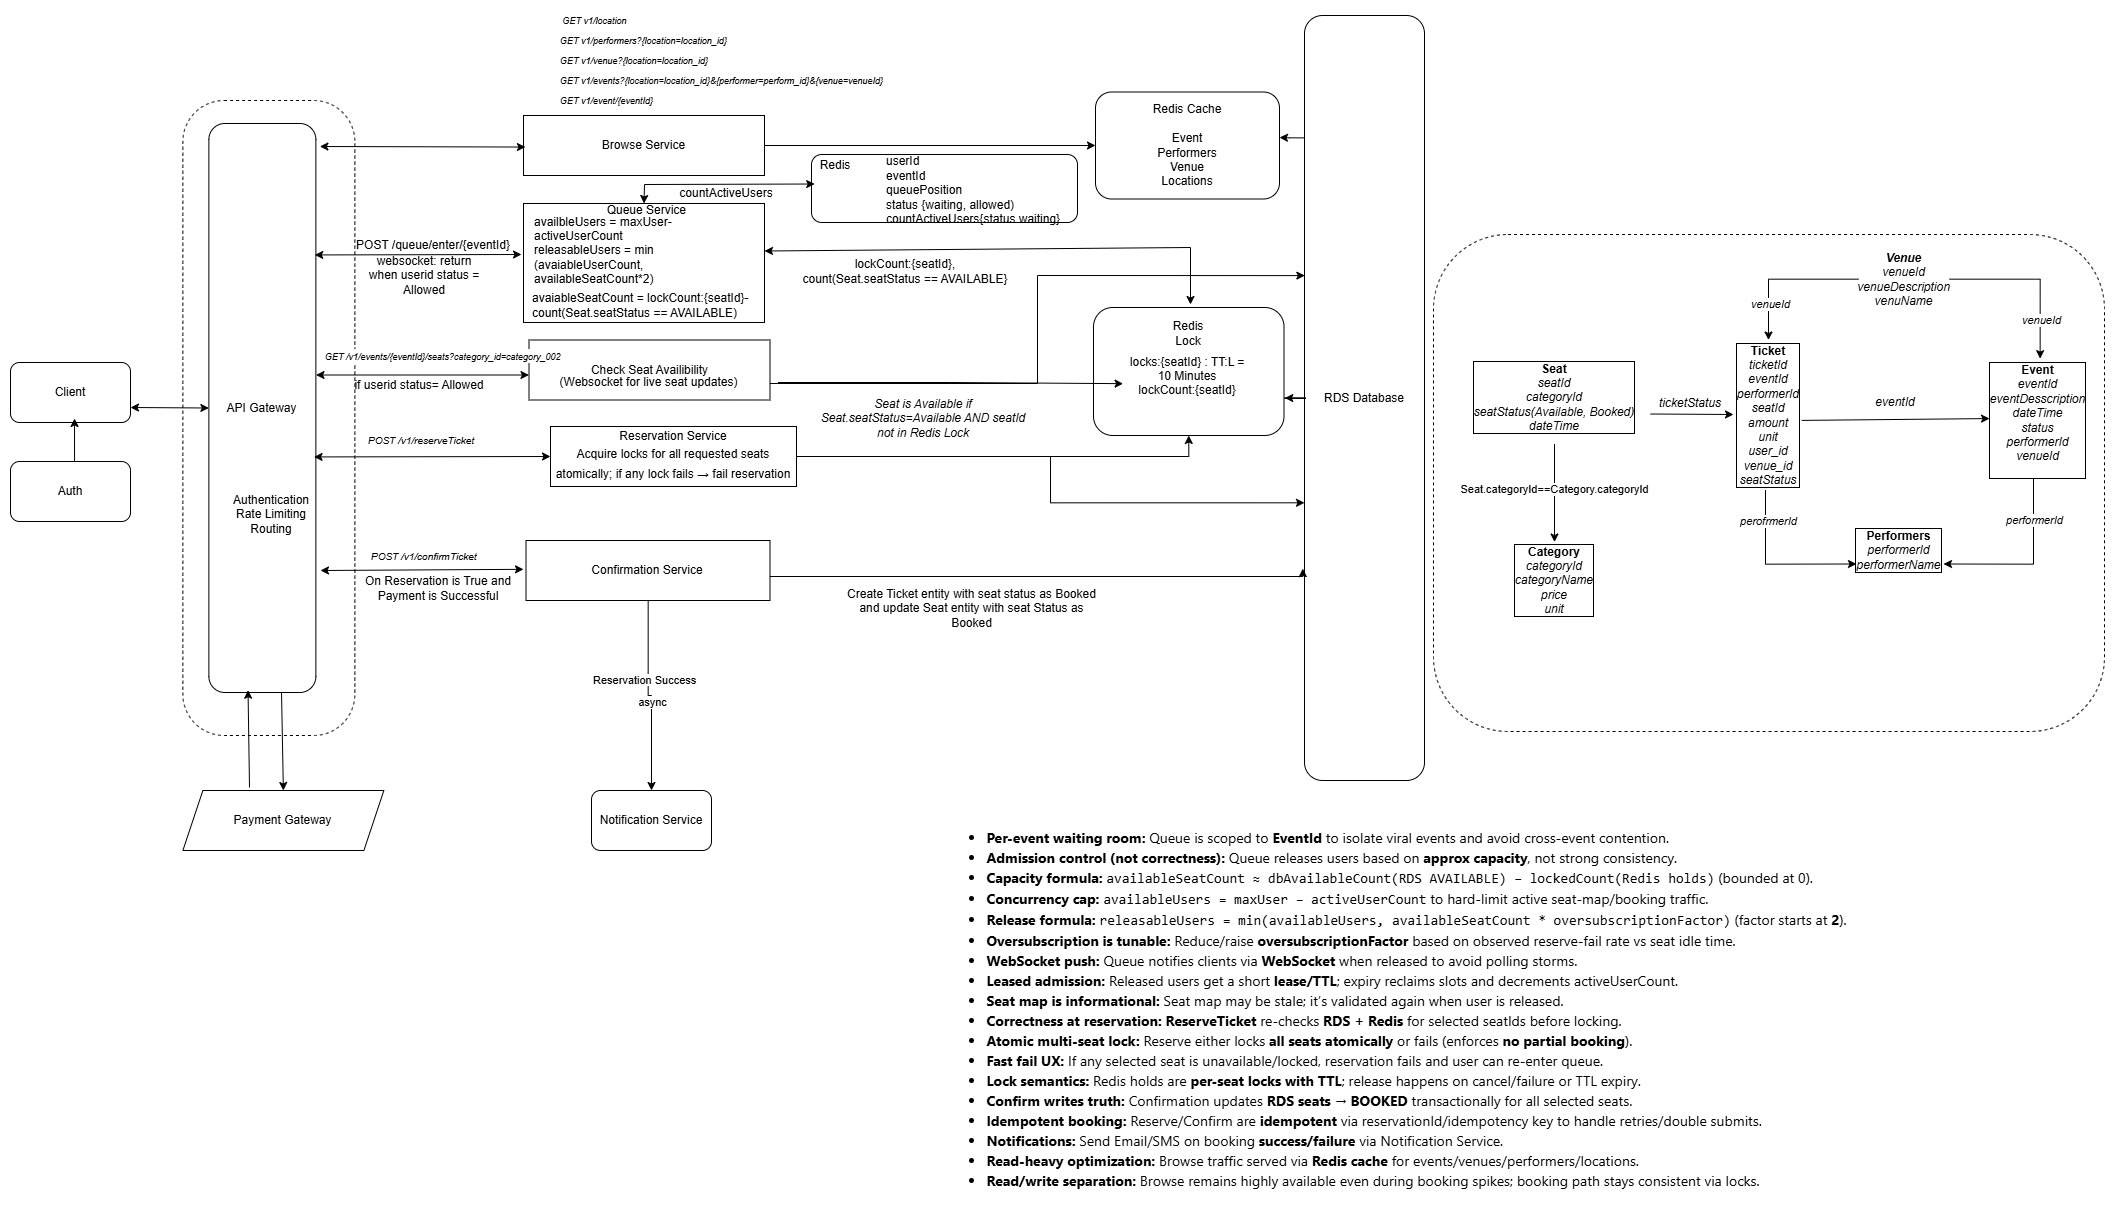
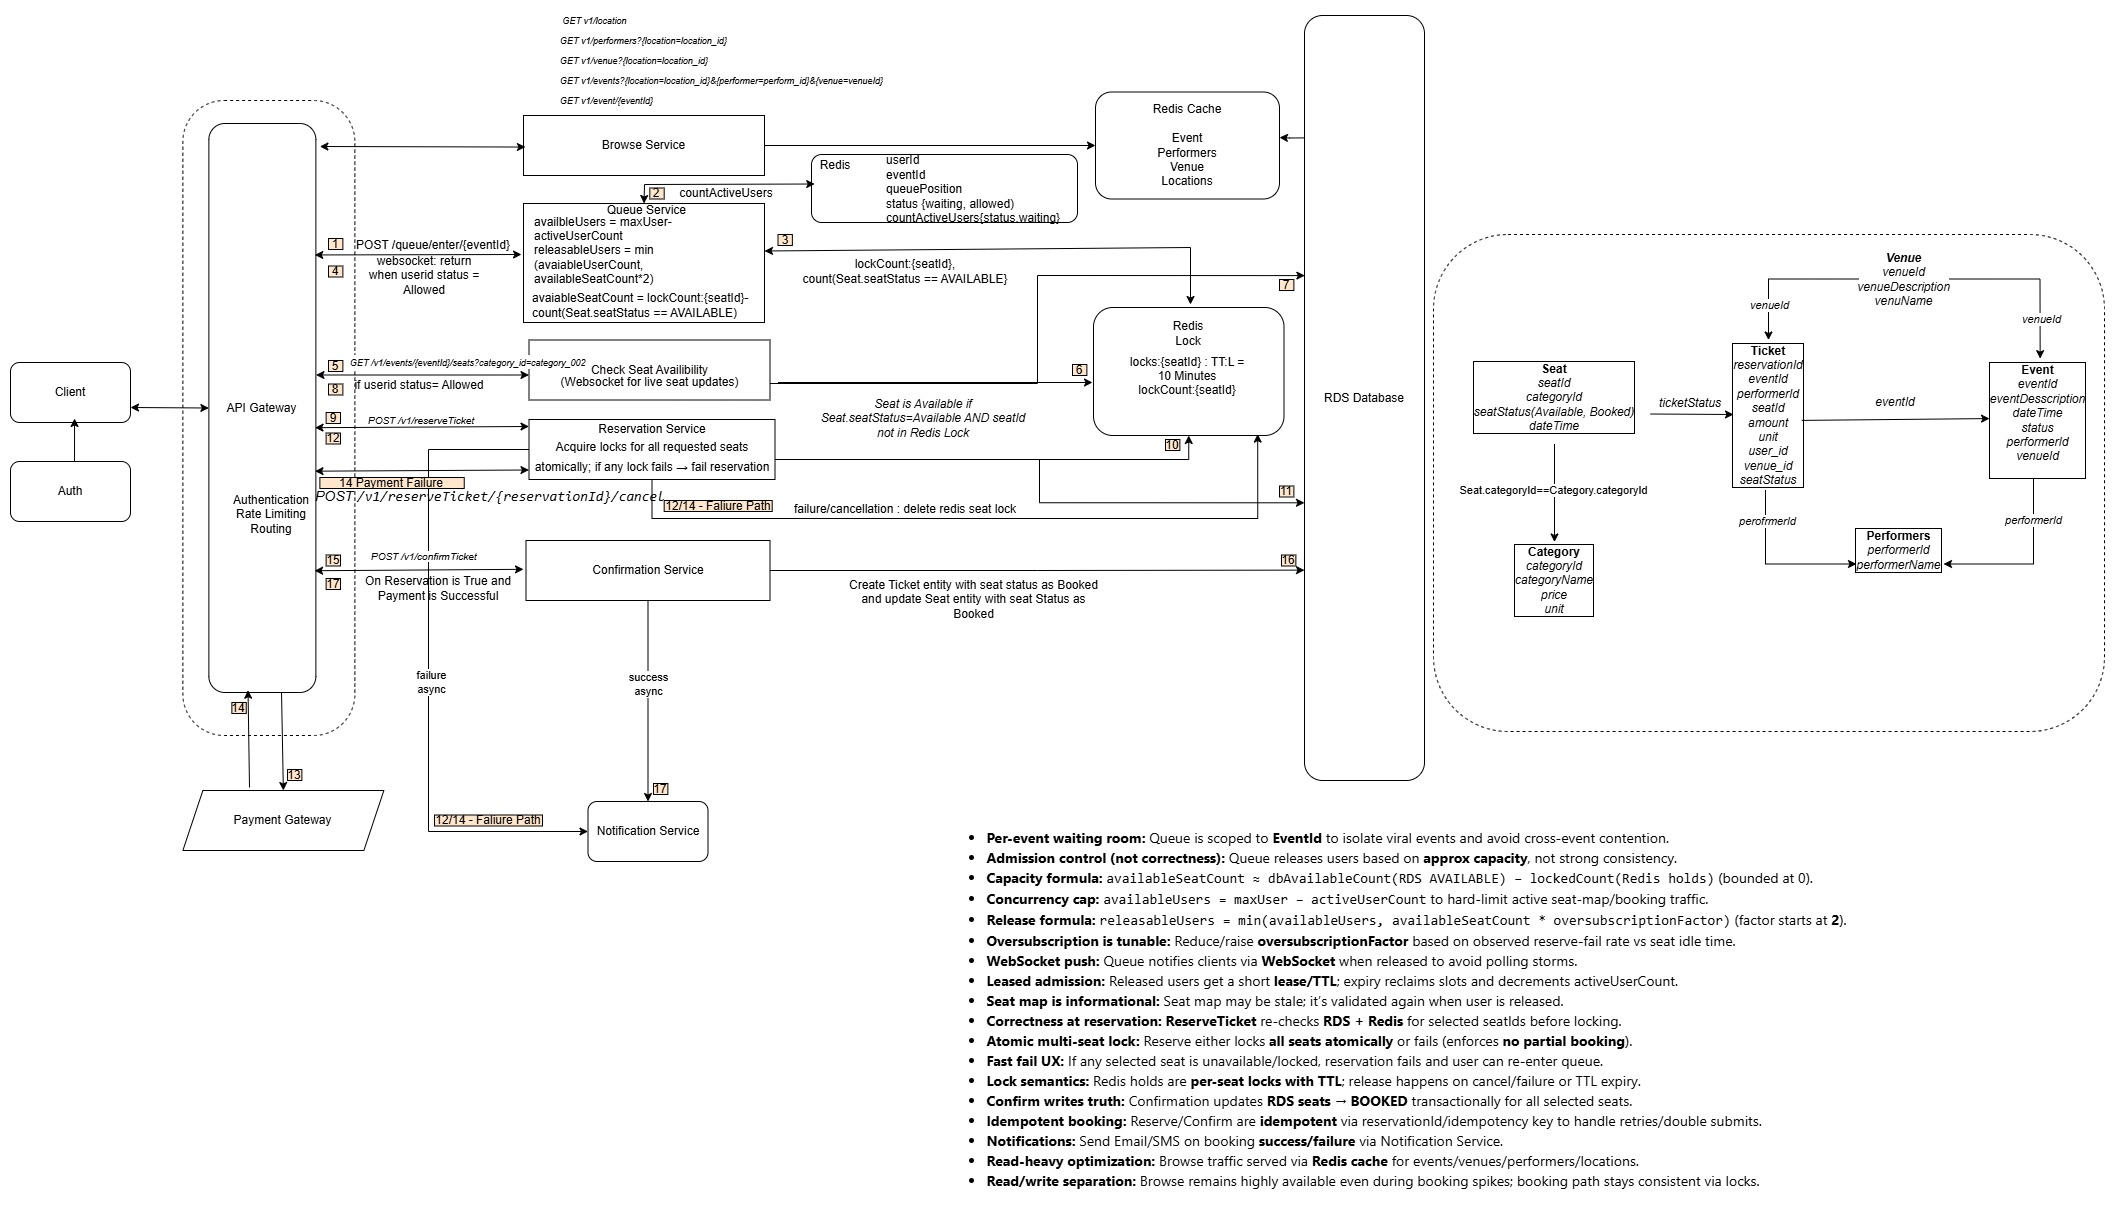
Finalised requirements, APIs and High Level Design

diff --git a/2. API_Design.md b/2. API_Design.md
@@ -317,7 +317,7 @@ Response:
 
 {
   "reservationId": "res_123",
-  "status": "SUCCESS | PARTIAL_SUCCESS | FAILED",
+  "status": "SUCCESS |  FAILED",
   "expiresAt": "2026-05-11T09:20:00+05:30",
   "eventId": "event_123",
   "categoryId": "category_001",
@@ -328,18 +328,13 @@ Response:
     "totalAmount": 6000
   },
   "seats": {
-    "requested": ["A-01-01", "A-01-02", "A-01-03"],
+    "requested": ["A-01-01", "A-01-02"],
     "locked": ["A-01-01", "A-01-02"],
-    "failed": [
-      {
-        "seatId": "A-01-03",
-        "reason": "ALREADY_LOCKED | ALREADY_BOOKED | NOT_FOUND | CATEGORY_MISMATCH"
-      }
-    ]
+   
   },
   "nextActions": {
     "canProceedToPayment": true,
-    "retryAllowed": true
+    "canCancel": true
   }
 }
 
@@ -360,6 +355,34 @@ Response:
 https://your-frontend.com/payment/return?reservationId=res_123&paymentStatus=success&paymentRef=txn_999
 ```
 
+---
+
+## Alternatio/Faliure Path: If reservation fails or payment fails
+
+- If the reservation or payment fails then call an API to delete the seat lock for those respective seats
+
+```json
+POST /v1/reservations/{reservationId}/cancel
+```
+
+```json
+Request:
+{
+  "reason": "PAYMENT_FAILED | USER_CANCELLED | TIMEOUT | SYSTEM_ABORT",
+  "idempotencyKey": "b7b3a93d-fc9d-4d42-9a5e-2bf9a3f1d2db"
+}
+```
+
+```json
+Response:
+
+{
+  "reservationId": "resv_12345",
+  "status": "CANCELLED",
+  "releasedSeatIds": ["A1", "A2", "A3"],
+  "releasedAt": "2026-05-14T05:05:00Z"
+}
+```
 ---
 
 ## Book Ticket